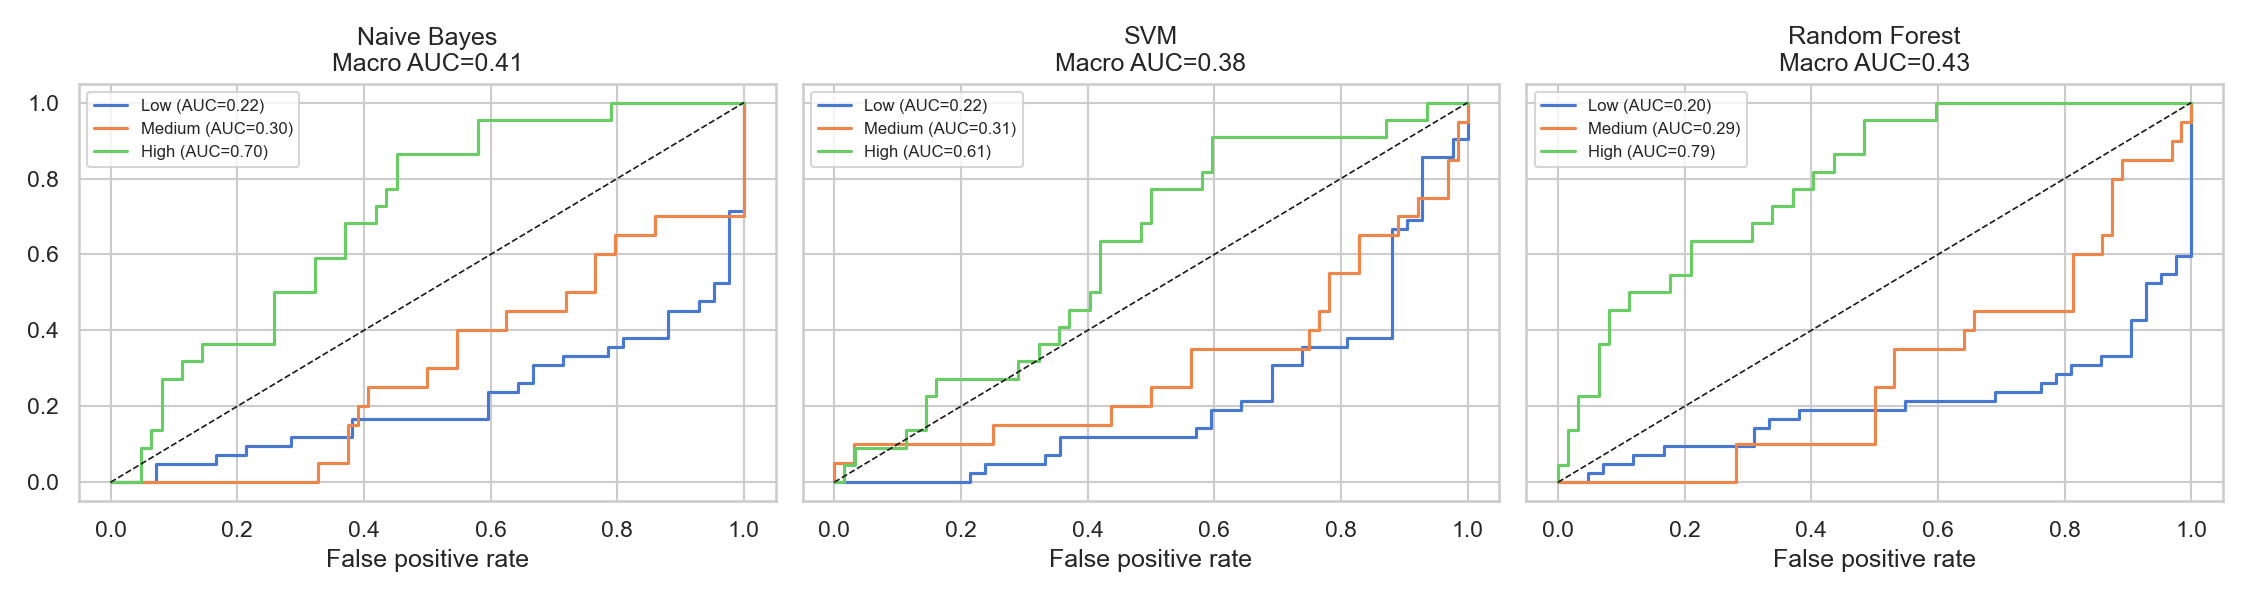
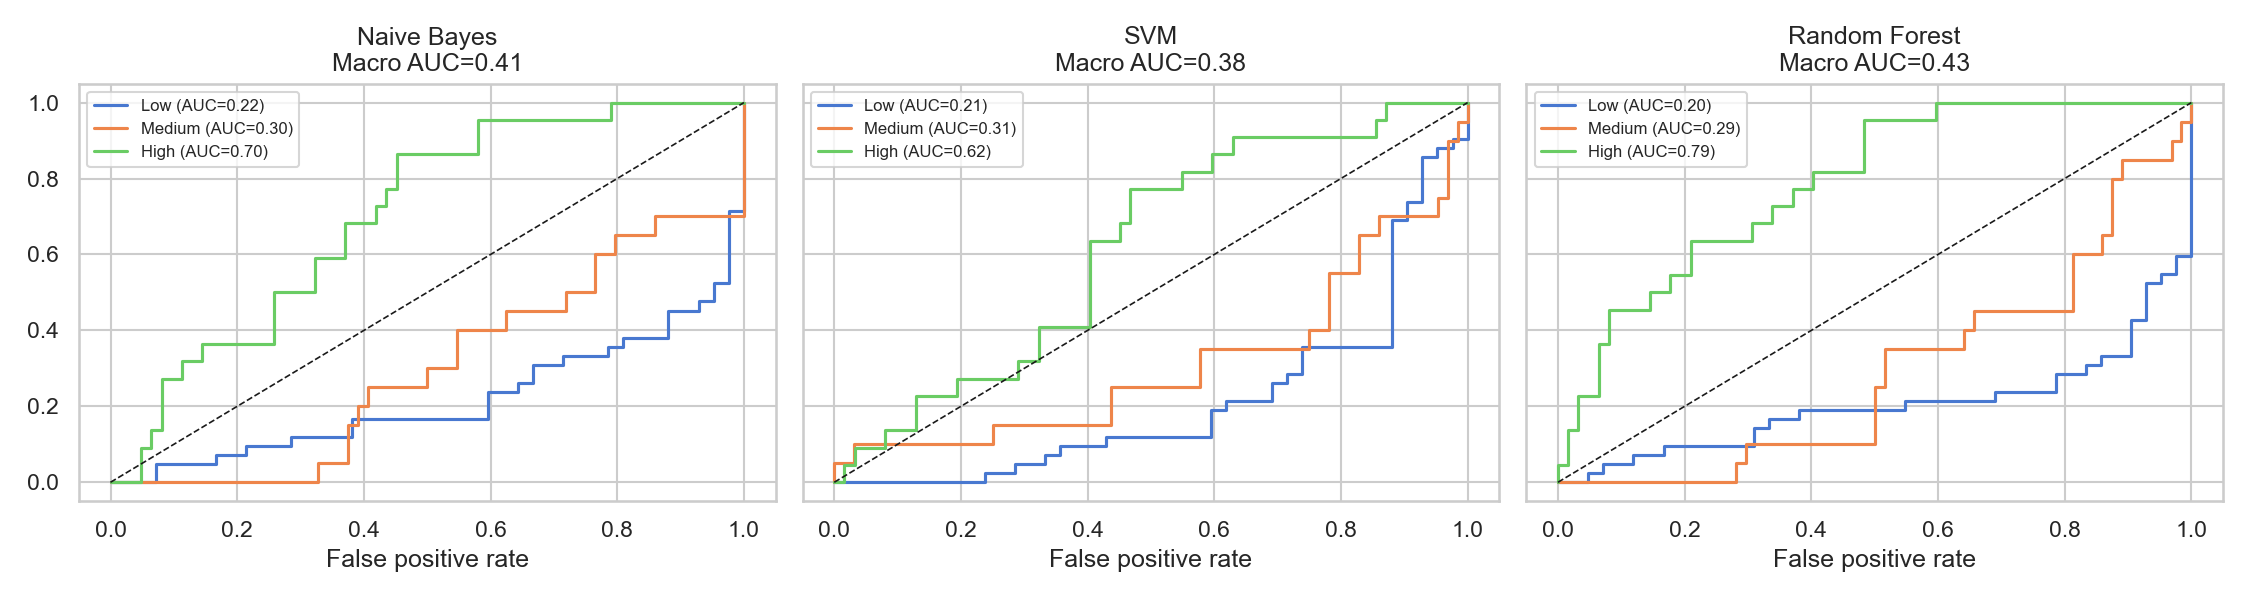
modified:   .gitignore 	modified:   Assignment_4_Script/2_A4_classification.py 	modified:   outputs/Assignment_4/classification/eval_confusion_matrices_medium.png 	modified:   outputs/Assignment_4/classification/eval_roc_auc_medium.png 	modified:   outputs/Assignment_4/classification/model_metrics_m

diff --git a/Assignment_4_Script/2_A4_classification.py b/Assignment_4_Script/2_A4_classification.py
@@ -35,6 +35,7 @@ from sklearn.model_selection import GridSearchCV, StratifiedKFold, cross_val_pre
 from sklearn.naive_bayes import GaussianNB
 from sklearn.preprocessing import StandardScaler, label_binarize
 from sklearn.svm import SVC
+from sklearn.pipeline import Pipeline
 
 warnings.filterwarnings("ignore")
 sns.set_theme(style="whitegrid", palette="muted")
@@ -94,25 +95,46 @@ def run_models(X, y):
     CV = StratifiedKFold(n_splits=10, shuffle=True, random_state=42)
 
     results = {}
-    nb = GaussianNB()
-    nb_preds = cross_val_predict(nb, X, y, cv=CV)
-    results["Naive Bayes"] = {"model": nb, "preds": nb_preds}
+    # Naive Bayes
+    # nb = GaussianNB()
+    nb_pipeline = Pipeline([('scaler', StandardScaler()), ('model', GaussianNB())])
+    nb_preds = cross_val_predict(nb_pipeline, X, y, cv=CV)
+    results["Naive Bayes"] = {"model": nb_pipeline, "preds": nb_preds}
 
+    # SVM with RBF kernel
     svm_grid = {"C": [0.1, 1.0, 5.0], "gamma": ["scale", "auto"]}
+    svm_model = SVC(kernel="rbf", class_weight="balanced", probability=True, random_state=42)
     svm_gs = GridSearchCV(SVC(kernel="rbf", class_weight="balanced", probability=True, random_state=42),
                            param_grid=svm_grid, cv=CV, scoring="f1_macro", n_jobs=-1)
-    svm_gs.fit(X, y)
-    best_svm = svm_gs.best_estimator_
-    svm_preds = cross_val_predict(best_svm, X, y, cv=CV)
-    results["SVM"] = {"model": best_svm, "preds": svm_preds, "best_params": svm_gs.best_params_, "best_score": svm_gs.best_score_}
+    svm_pipeline = Pipeline([('scaler', StandardScaler()), ('gs', svm_gs)])
+    svm_pipeline.fit(X, y)
+    best_svm = svm_pipeline.named_steps['gs'].best_estimator_
+    svm_preds = cross_val_predict(Pipeline([('scaler', StandardScaler()), ('model', best_svm)]), X, y, cv=CV)
+    results["SVM"] = {"model": best_svm, "preds": svm_preds}
 
-    rf_grid = {"n_estimators": [100,200], "max_depth": [6, None], "min_samples_leaf": [1,3]}
-    rf_gs = GridSearchCV(RandomForestClassifier(class_weight="balanced", random_state=42),
-                         param_grid=rf_grid, cv=CV, scoring="f1_macro", n_jobs=-1)
+    # Random Forest
+    rf_grid = {
+        "rf__n_estimators": [100, 200],
+        "rf__max_depth": [6, None],
+        "rf__min_samples_leaf": [1, 3],
+    }
+
+    rf_base_pipe = Pipeline([
+        ('scaler', StandardScaler()), 
+        ('rf', RandomForestClassifier(class_weight="balanced", random_state=42))
+    ])
+    rf_gs = GridSearchCV(rf_base_pipe, param_grid=rf_grid, cv=CV, scoring="f1_macro", n_jobs=-1)
     rf_gs.fit(X, y)
-    best_rf = rf_gs.best_estimator_
-    rf_preds = cross_val_predict(best_rf, X, y, cv=CV)
-    results["Random Forest"] = {"model": best_rf, "preds": rf_preds, "best_params": rf_gs.best_params_, "best_score": rf_gs.best_score_}
+    best_rf_pipe = rf_gs.best_estimator_
+    rf_preds = cross_val_predict(best_rf_pipe, X, y, cv=CV)
+    clean_params = {k.replace("rf__", ""): v for k, v in rf_gs.best_params_.items()}
+    
+    results["Random Forest"] = {
+        "model": best_rf_pipe.named_steps['rf'], 
+        "preds": rf_preds, 
+        "best_params": clean_params, 
+        "best_score": rf_gs.best_score_
+    }
 
     return results
 
@@ -150,7 +172,10 @@ def evaluate(results, y, X, features, t33, t66):
         for ax, name in zip(axes, model_names):
             model = results[name]["model"]
             try:
-                y_prob = cross_val_predict(model, X, y, cv=StratifiedKFold(n_splits=10, shuffle=True, random_state=42), method="predict_proba")
+               
+                pipe = Pipeline([('scaler', StandardScaler()), ('cls', model)])
+
+                y_prob =cross_val_predict(pipe, X, y, cv=StratifiedKFold(n_splits=10, shuffle=True, random_state=42), method="predict_proba")
                 auc_scores = []
                 for i, cls in enumerate(["Low","Medium","High"]):
                     fpr, tpr, _ = roc_curve(y_bin[:, i], y_prob[:, i])
@@ -171,19 +196,30 @@ def evaluate(results, y, X, features, t33, t66):
 
     if "Random Forest" in results:
         rf = results["Random Forest"]["model"]
-        rf.fit(X, y)
+        scaler = StandardScaler()
+        X_scaled = scaler.fit_transform(X)
+        rf.fit(X_scaled, y)
         importances = pd.Series(rf.feature_importances_, index=features).sort_values(ascending=False)
         importances.to_csv(OUT / "rf_feature_importance_medium.csv", header=["importance"])
 
-    errors = {name: (np.array(y) != np.array(results[name]["preds"])) .astype(int) for name in model_names}
+    errors = {name: (np.array(y) != np.array(results[name]["preds"])).astype(int) for name in model_names}
     from itertools import combinations
     rows = []
-    for (m1,e1),(m2,e2) in combinations(errors.items(),2):
-        t_stat, t_pval = stats.ttest_rel(e1,e2)
-        w_stat, w_pval = stats.wilcoxon(e1,e2, zero_method="wilcox")
-        concl = "Significant" if t_pval < 0.05 else "No significant"
-        rows.append({"Comparison": f"{m1} vs {m2}", "t-pval": round(t_pval,4), "wilcoxon-p": round(w_pval,4), "Conclusion": concl})
-    pd.DataFrame(rows).to_csv(OUT / "statistical_tests_medium.csv", index=False)
+    
+    for (m1, e1), (m2, e2) in combinations(errors.items(), 2):
+        t_stat, t_pval = stats.ttest_rel(e1, e2)
+        w_stat, w_pval = stats.wilcoxon(e1, e2, zero_method="wilcox")
+        concl = "Significant difference" if t_pval < 0.05 else "No significant difference"
+        
+        rows.append({
+            "Model Comparison": f"{m1} vs {m2}",
+            "t-statistic": round(t_stat, 4),
+            "t-test p-value": round(t_pval, 4),
+            "Wilcoxon p-value": round(w_pval, 4),
+            "Hypothesis Conclusion (alpha=0.05)": concl
+        })
+        
+    pd.DataFrame(rows).to_csv(OUT / "statistical_tests_assignment4.csv", index=False)
 
     print("Assessment 4 evaluation outputs saved to:", OUT)
 
